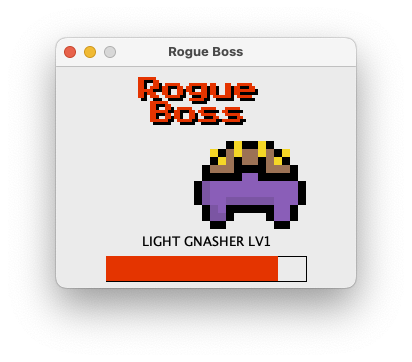
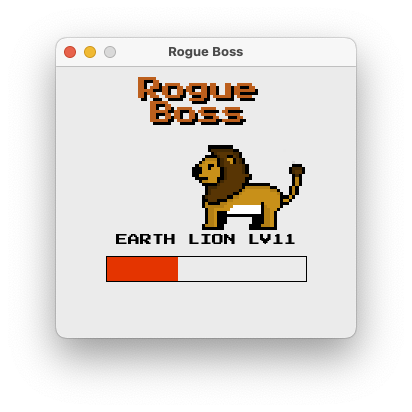
Update images and readme

Changed region(s): [[0.1165, 0.0912, 0.8738, 0.8204], [0.1165, 0.0912, 0.2913, 0.1823], [0.8447, 0.0912, 0.8738, 0.1215]]

diff --git a/README.md b/README.md
@@ -1,7 +1,7 @@
-# Rouge Boss
+# Rogue Boss
 Simple "Boss Battle" simulator for building communities.
 
-![Spring Boot](https://img.shields.io/badge/spring-%236DB33F.svg?style=for-the-badge&logo=spring+boot&logoColor=white)
+![Spring Boot](https://img.shields.io/badge/Spring_Boot_3-F2F4F9?style=for-the-badge&logo=spring-boot)
 ![Java](https://img.shields.io/badge/java-%23ED8B00.svg?style=for-the-badge&logo=java&logoColor=white)
 
 ## Application Description
@@ -36,7 +36,8 @@ POST /rb
 
 {
     "id": "123",
-    "type": "LIGHT",
+    "name": "Trinity",
+    "type": "DARK",
     "model": "TRINITY",
     "weapon": 1,
     "powerUp": 1,
@@ -54,7 +55,7 @@ Content-Type: application/json
     "slain": false,
     "boss": {
         "level": 3,
-        "bossType": "GNASHER",
+        "bossType": "SLIME",
         "type": "DARK",
         "health": 1290,
         "damageList": [
@@ -63,7 +64,7 @@ Content-Type: application/json
                 "damage": 6
             }
         ],
-        "name": "DARK GNASHER LV3"
+        "name": "DARK SLIME LV3"
     }
 }
 ```
@@ -72,29 +73,20 @@ The `damageList` attribute of the response will contain information of each user
 
 ## Typing
 This game has a simple typing system. Certain types are super/not very effective against one another.
-- **FIRE**
-    - Strong against: Earth
-    - Weak against: Water
-- **WATER**
-    - Strong against: Fire
-    - Weak against: Earth
-- **EARTH**
-    - Strong against: Water
-    - Weak against: Fire
-- **PSYCHIC**
-    - Strong against: Dark
-    - Weak against: Light
-- **LIGHT**
-    - Strong against: PSYCHIC
-    - Weak against: Dark
-- **DARK**
-    - Strong against: Light
-    - Weak against: PSYCHIC
 
-## TODO
+- 🔥 **FIRE** is weak to **WATER**, but super effective against **EARTH**.
+- 💧 **WATER** is weak to **EARTH**, but super effective against **FIRE**.
+- 🪨 **EARTH** is weak to **FIRE**, but super effective against **WATER**.
+- 🔮 **PSYCHIC** is weak to **LIGHT**, but super effective against **DARK**.
+- 💫 **LIGHT** is weak to **DARK**, but super effective against **PSYCHIC**.
+- 🌑 **DARK** is weak to **PSYCHIC**, but super effective against **LIGHT**.
+
+
+## Future Improvements
 - Unit Testing
-- Simple Diagram
+- Simple Architectural Diagram
 - Add additional images
+- Potentially utilize `weapon` and `powerUp` attributes.
 
 ## Artwork Usage
-Usage of artwork in RogueBoss including the boss designs and the character designed are not permitted unless given permission by creator, **narlock**.
+The artwork in narlock's RogueBoss were created by __narlock__. Please ask for permission if you plan to use these assets for your own projects.
